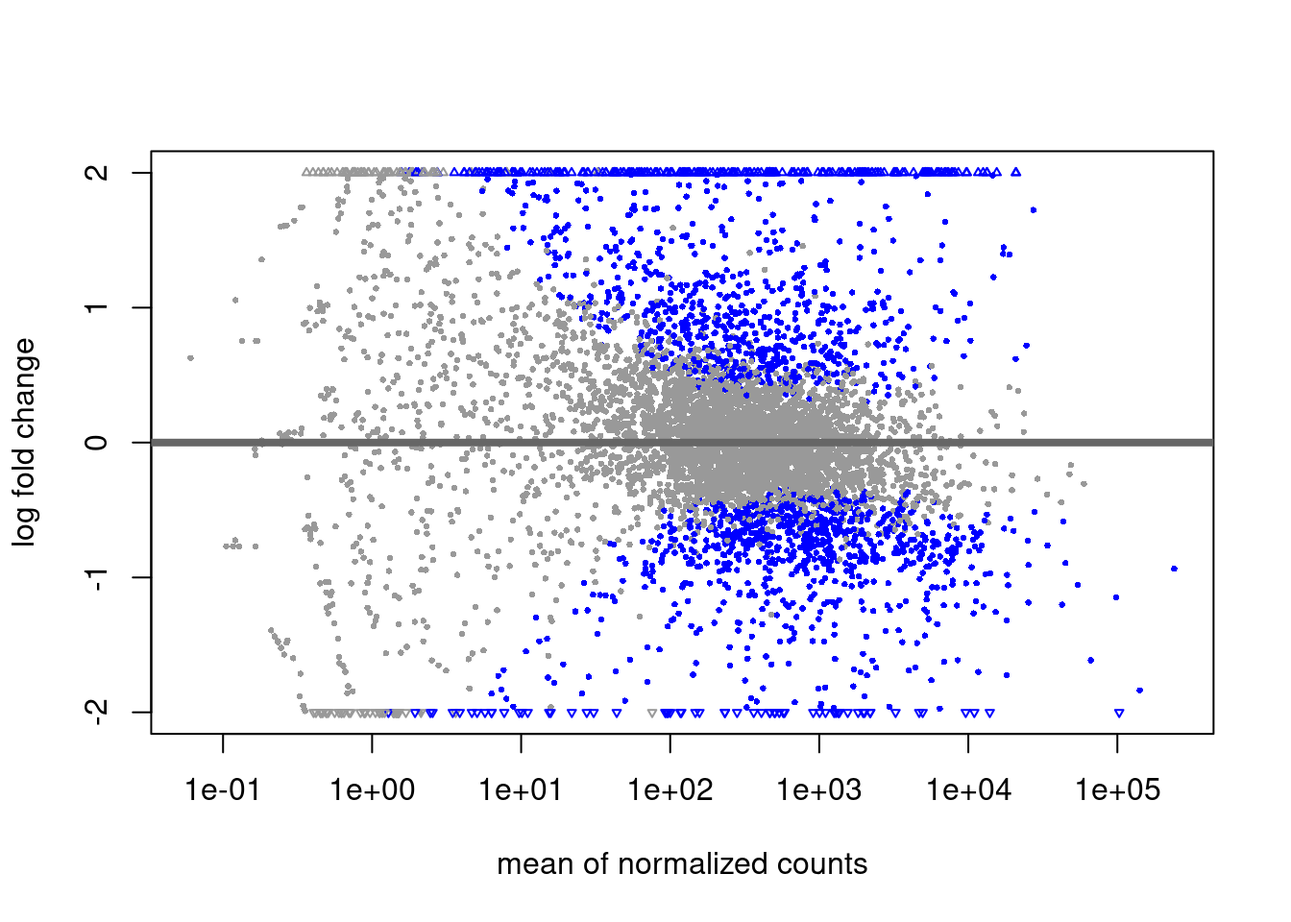
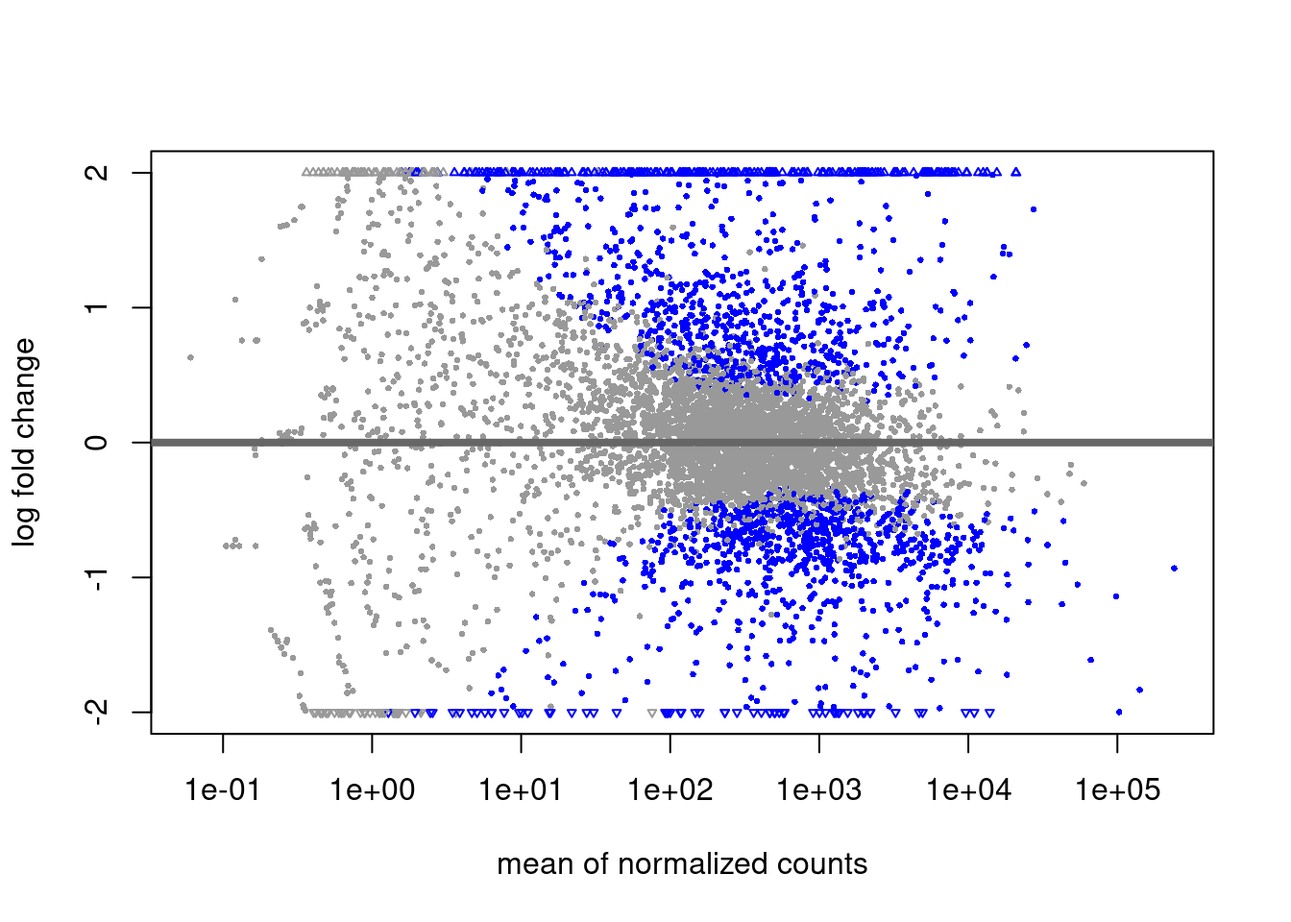
Visual changes

Changed region(s): [[0.6562, 0.5312, 0.6875, 0.5625], [0.625, 0.4062, 0.6562, 0.4375]]

diff --git a/src/4_differential_expression/4_differential_expression.html b/src/4_differential_expression/4_differential_expression.html
@@ -165,7 +165,10 @@ div.csl-indent {
   <ul class="collapse">
   <li><a href="#exercise-2" id="toc-exercise-2" class="nav-link" data-scroll-target="#exercise-2">Exercise #2</a></li>
   </ul></li>
-  <li><a href="#exploring-and-visualizing-results" id="toc-exploring-and-visualizing-results" class="nav-link" data-scroll-target="#exploring-and-visualizing-results">Exploring and Visualizing Results</a></li>
+  <li><a href="#exploring-and-visualizing-results" id="toc-exploring-and-visualizing-results" class="nav-link" data-scroll-target="#exploring-and-visualizing-results">Exploring and Visualizing Results</a>
+  <ul class="collapse">
+  <li><a href="#volcano-plot" id="toc-volcano-plot" class="nav-link" data-scroll-target="#volcano-plot">Volcano Plot</a></li>
+  </ul></li>
   </ul></li>
   </ul>
 </nav>
@@ -224,7 +227,7 @@ div.csl-indent {
                                  Dload  Upload   Total   Spent    Left  Speed
 
   0     0    0     0    0     0      0      0 --:--:-- --:--:-- --:--:--     0
-100 4760k  100 4760k    0     0  38.7M      0 --:--:-- --:--:-- --:--:-- 38.7M
+100 4760k  100 4760k    0     0  37.4M      0 --:--:-- --:--:-- --:--:-- 37.4M
 G1.h5
 G1.json
 G1.txt
@@ -412,13 +415,13 @@ colData names(1): Condition</code></pre>
 <pre><code>using 'avgTxLength' from assays(dds), correcting for library size</code></pre>
 </div>
 <div class="sourceCode cell-code" id="cb29"><pre class="sourceCode r code-with-copy"><code class="sourceCode r"><span id="cb29-1"><a href="#cb29-1" aria-hidden="true" tabindex="-1"></a><span class="co"># Extract normalized counts</span></span>
-<span id="cb29-2"><a href="#cb29-2" aria-hidden="true" tabindex="-1"></a>normCounts <span class="ot">&lt;-</span> SummarizedExperiment<span class="sc">::</span><span class="fu">assay</span>(vsdQC)</span></code><button title="Copy to Clipboard" class="code-copy-button"><i class="bi"></i></button></pre></div>
+<span id="cb29-2"><a href="#cb29-2" aria-hidden="true" tabindex="-1"></a>vsdSE <span class="ot">&lt;-</span> SummarizedExperiment<span class="sc">::</span><span class="fu">assay</span>(vsdQC)</span></code><button title="Copy to Clipboard" class="code-copy-button"><i class="bi"></i></button></pre></div>
 </div>
 <section id="pca" class="level3">
 <h3 class="anchored" data-anchor-id="pca">PCA</h3>
 <div class="cell">
 <div class="sourceCode cell-code" id="cb30"><pre class="sourceCode r code-with-copy"><code class="sourceCode r"><span id="cb30-1"><a href="#cb30-1" aria-hidden="true" tabindex="-1"></a><span class="co"># Run PCA</span></span>
-<span id="cb30-2"><a href="#cb30-2" aria-hidden="true" tabindex="-1"></a>pcDat  <span class="ot">&lt;-</span> <span class="fu">prcomp</span>(<span class="fu">t</span>(normCounts), <span class="at">scale. =</span> <span class="cn">TRUE</span>)</span>
+<span id="cb30-2"><a href="#cb30-2" aria-hidden="true" tabindex="-1"></a>pcDat  <span class="ot">&lt;-</span> <span class="fu">prcomp</span>(<span class="fu">t</span>(vsdSE), <span class="at">scale. =</span> <span class="cn">FALSE</span>)</span>
 <span id="cb30-3"><a href="#cb30-3" aria-hidden="true" tabindex="-1"></a></span>
 <span id="cb30-4"><a href="#cb30-4" aria-hidden="true" tabindex="-1"></a><span class="co"># Calculate explained variance</span></span>
 <span id="cb30-5"><a href="#cb30-5" aria-hidden="true" tabindex="-1"></a>varExp <span class="ot">&lt;-</span> (<span class="dv">100</span><span class="sc">*</span>pcDat<span class="sc">$</span>sdev<span class="sc">^</span><span class="dv">2</span>)<span class="sc">/</span><span class="fu">sum</span>(pcDat<span class="sc">$</span>sdev<span class="sc">^</span><span class="dv">2</span>)</span>
@@ -439,19 +442,16 @@ colData names(1): Condition</code></pre>
 </div>
 </div>
 <div class="cell">
-<div class="sourceCode cell-code" id="cb31"><pre class="sourceCode r code-with-copy"><code class="sourceCode r"><span id="cb31-1"><a href="#cb31-1" aria-hidden="true" tabindex="-1"></a><span class="fu">plot_ly</span>(<span class="fu">as.data.frame</span>(pcDat<span class="sc">$</span>x), <span class="at">x=</span><span class="sc">~</span>PC1, <span class="at">y=</span><span class="sc">~</span>PC2, <span class="at">color=</span>meta<span class="sc">$</span>Condition, <span class="at">colors=</span><span class="st">"Set1"</span>,</span>
-<span id="cb31-2"><a href="#cb31-2" aria-hidden="true" tabindex="-1"></a>        <span class="at">type=</span><span class="st">"scatter"</span>, <span class="at">mode=</span><span class="st">"markers"</span>) <span class="sc">%&gt;%</span></span>
-<span id="cb31-3"><a href="#cb31-3" aria-hidden="true" tabindex="-1"></a>  <span class="fu">layout</span>(<span class="at">title=</span><span class="st">"PCA Plot"</span>)</span></code><button title="Copy to Clipboard" class="code-copy-button"><i class="bi"></i></button></pre></div>
+<div class="sourceCode cell-code" id="cb31"><pre class="sourceCode r code-with-copy"><code class="sourceCode r"><span id="cb31-1"><a href="#cb31-1" aria-hidden="true" tabindex="-1"></a><span class="fu">plotPCA</span>(vsdQC, <span class="at">intgroup=</span><span class="fu">c</span>(<span class="st">"Condition"</span>), <span class="at">ntop=</span><span class="fu">nrow</span>(vsdQC))</span></code><button title="Copy to Clipboard" class="code-copy-button"><i class="bi"></i></button></pre></div>
 <div class="cell-output-display">
-<div id="htmlwidget-3216bf46570c15aa5b2b" style="width:100%;height:464px;" class="plotly html-widget"></div>
-<script type="application/json" data-for="htmlwidget-3216bf46570c15aa5b2b">{"x":{"visdat":{"88f268aa72c":["function () ","plotlyVisDat"]},"cur_data":"88f268aa72c","attrs":{"88f268aa72c":{"x":{},"y":{},"mode":"markers","color":["Glucose","Glucose","Glucose","Glucose","GlycEth","GlycEth","GlycEth","GlycEth"],"colors":"Set1","alpha_stroke":1,"sizes":[10,100],"spans":[1,20],"type":"scatter"}},"layout":{"margin":{"b":40,"l":60,"t":25,"r":10},"title":"PCA Plot","xaxis":{"domain":[0,1],"automargin":true,"title":"PC1"},"yaxis":{"domain":[0,1],"automargin":true,"title":"PC2"},"hovermode":"closest","showlegend":true},"source":"A","config":{"modeBarButtonsToAdd":["hoverclosest","hovercompare"],"showSendToCloud":false},"data":[{"x":[-49.3047650700246,-32.7316294642429,-40.3808279801352,-44.8330584765153],"y":[36.3597720309979,-31.4088647379974,-36.9154853872422,17.5541054863385],"mode":"markers","type":"scatter","name":"Glucose","marker":{"color":"rgba(228,26,28,1)","line":{"color":"rgba(228,26,28,1)"}},"textfont":{"color":"rgba(228,26,28,1)"},"error_y":{"color":"rgba(228,26,28,1)"},"error_x":{"color":"rgba(228,26,28,1)"},"line":{"color":"rgba(228,26,28,1)"},"xaxis":"x","yaxis":"y","frame":null},{"x":[48.6089213451534,38.0011604711075,34.9902898055846,45.6499093690726],"y":[-34.5430386487641,-22.2388812825796,62.3615177042118,8.83087483503513],"mode":"markers","type":"scatter","name":"GlycEth","marker":{"color":"rgba(55,126,184,1)","line":{"color":"rgba(55,126,184,1)"}},"textfont":{"color":"rgba(55,126,184,1)"},"error_y":{"color":"rgba(55,126,184,1)"},"error_x":{"color":"rgba(55,126,184,1)"},"line":{"color":"rgba(55,126,184,1)"},"xaxis":"x","yaxis":"y","frame":null}],"highlight":{"on":"plotly_click","persistent":false,"dynamic":false,"selectize":false,"opacityDim":0.2,"selected":{"opacity":1},"debounce":0},"shinyEvents":["plotly_hover","plotly_click","plotly_selected","plotly_relayout","plotly_brushed","plotly_brushing","plotly_clickannotation","plotly_doubleclick","plotly_deselect","plotly_afterplot","plotly_sunburstclick"],"base_url":"https://plot.ly"},"evals":[],"jsHooks":[]}</script>
+<p><img src="4_differential_expression_files/figure-html/unnamed-chunk-10-1.png" class="img-fluid" width="672"></p>
 </div>
 </div>
 </section>
 <section id="mds" class="level3">
 <h3 class="anchored" data-anchor-id="mds">MDS</h3>
 <div class="cell">
-<div class="sourceCode cell-code" id="cb32"><pre class="sourceCode r code-with-copy"><code class="sourceCode r"><span id="cb32-1"><a href="#cb32-1" aria-hidden="true" tabindex="-1"></a>mds <span class="ot">&lt;-</span> limma<span class="sc">::</span><span class="fu">plotMDS</span>(normCounts, <span class="at">plot=</span><span class="cn">FALSE</span>)</span>
+<div class="sourceCode cell-code" id="cb32"><pre class="sourceCode r code-with-copy"><code class="sourceCode r"><span id="cb32-1"><a href="#cb32-1" aria-hidden="true" tabindex="-1"></a>mds <span class="ot">&lt;-</span> limma<span class="sc">::</span><span class="fu">plotMDS</span>(vsdSE, <span class="at">plot=</span><span class="cn">FALSE</span>)</span>
 <span id="cb32-2"><a href="#cb32-2" aria-hidden="true" tabindex="-1"></a>mdsOut <span class="ot">&lt;-</span> mds<span class="sc">$</span>eigen.vectors[,<span class="dv">1</span><span class="sc">:</span><span class="dv">3</span>]</span>
 <span id="cb32-3"><a href="#cb32-3" aria-hidden="true" tabindex="-1"></a><span class="fu">colnames</span>(mdsOut) <span class="ot">&lt;-</span> <span class="fu">c</span>(<span class="st">"Leading logFC dim1"</span>, <span class="st">"Leading logFC dim2"</span>, </span>
 <span id="cb32-4"><a href="#cb32-4" aria-hidden="true" tabindex="-1"></a>                      <span class="st">"Leading logFC dim3"</span>)</span>
@@ -459,15 +459,15 @@ colData names(1): Condition</code></pre>
 <span id="cb32-6"><a href="#cb32-6" aria-hidden="true" tabindex="-1"></a><span class="fu">plot_ly</span>(toPlot, <span class="at">x=</span><span class="sc">~</span><span class="st">`</span><span class="at">Leading logFC dim1</span><span class="st">`</span>, <span class="at">y=</span><span class="sc">~</span><span class="st">`</span><span class="at">Leading logFC dim2</span><span class="st">`</span>, <span class="at">z=</span><span class="sc">~</span><span class="st">`</span><span class="at">Leading logFC dim3</span><span class="st">`</span>, <span class="at">color=</span><span class="sc">~</span>Condition, <span class="at">colors=</span><span class="st">"Set1"</span>, <span class="at">type=</span><span class="st">'scatter3d'</span>, <span class="at">mode=</span><span class="st">'markers+text'</span>, <span class="at">text=</span><span class="sc">~</span>Sample, <span class="at">textposition =</span> <span class="st">"top right"</span>) <span class="sc">%&gt;%</span></span>
 <span id="cb32-7"><a href="#cb32-7" aria-hidden="true" tabindex="-1"></a>  plotly<span class="sc">::</span><span class="fu">layout</span>(<span class="at">title=</span><span class="st">"Classical MDS"</span>, <span class="at">scene=</span><span class="fu">list</span>(<span class="at">xaxis=</span><span class="fu">list</span>(<span class="at">title =</span> <span class="st">'Leading logFC dim1'</span>), <span class="at">yaxis =</span> <span class="fu">list</span>(<span class="at">title =</span> <span class="st">'Leading logFC dim2'</span>), <span class="at">zaxis =</span> <span class="fu">list</span>(<span class="at">title =</span> <span class="st">'Leading logFC dim3'</span>)))</span></code><button title="Copy to Clipboard" class="code-copy-button"><i class="bi"></i></button></pre></div>
 <div class="cell-output-display">
-<div id="htmlwidget-aba33230ce07cdeaed8c" style="width:100%;height:464px;" class="plotly html-widget"></div>
-<script type="application/json" data-for="htmlwidget-aba33230ce07cdeaed8c">{"x":{"visdat":{"88f236138ac3":["function () ","plotlyVisDat"]},"cur_data":"88f236138ac3","attrs":{"88f236138ac3":{"x":{},"y":{},"z":{},"mode":"markers+text","text":{},"textposition":"top right","color":{},"colors":"Set1","alpha_stroke":1,"sizes":[10,100],"spans":[1,20],"type":"scatter3d"}},"layout":{"margin":{"b":40,"l":60,"t":25,"r":10},"title":"Classical MDS","scene":{"xaxis":{"title":"Leading logFC dim1"},"yaxis":{"title":"Leading logFC dim2"},"zaxis":{"title":"Leading logFC dim3"}},"hovermode":"closest","showlegend":true},"source":"A","config":{"modeBarButtonsToAdd":["hoverclosest","hovercompare"],"showSendToCloud":false},"data":[{"x":[-0.37608837817204,-0.362126628145731,-0.323681703130708,-0.348981167623267],"y":[0.274948059131787,-0.0961810490299608,-0.448285246947217,0.208070151631864],"z":[0.263889951267472,-0.512079641746123,0.215206107974928,0.0929623249093178],"mode":"markers+text","text":["G1","G2","G3","G4"],"textposition":["top right","top right","top right","top right"],"type":"scatter3d","name":"Glucose","marker":{"color":"rgba(228,26,28,1)","line":{"color":"rgba(228,26,28,1)"}},"textfont":{"color":"rgba(228,26,28,1)"},"error_y":{"color":"rgba(228,26,28,1)"},"error_x":{"color":"rgba(228,26,28,1)"},"line":{"color":"rgba(228,26,28,1)"},"frame":null},{"x":[0.379931940391863,0.361639973571027,0.364209290132452,0.305096672976402],"y":[-0.431251708255777,-0.34748921528266,0.494975557157824,0.345213451594143],"z":[0.0306516058939538,0.0969269604123899,0.44717311925359,-0.634730427965528],"mode":"markers+text","text":["GE1","GE2","GE3","GE4"],"textposition":["top right","top right","top right","top right"],"type":"scatter3d","name":"GlycEth","marker":{"color":"rgba(55,126,184,1)","line":{"color":"rgba(55,126,184,1)"}},"textfont":{"color":"rgba(55,126,184,1)"},"error_y":{"color":"rgba(55,126,184,1)"},"error_x":{"color":"rgba(55,126,184,1)"},"line":{"color":"rgba(55,126,184,1)"},"frame":null}],"highlight":{"on":"plotly_click","persistent":false,"dynamic":false,"selectize":false,"opacityDim":0.2,"selected":{"opacity":1},"debounce":0},"shinyEvents":["plotly_hover","plotly_click","plotly_selected","plotly_relayout","plotly_brushed","plotly_brushing","plotly_clickannotation","plotly_doubleclick","plotly_deselect","plotly_afterplot","plotly_sunburstclick"],"base_url":"https://plot.ly"},"evals":[],"jsHooks":[]}</script>
+<div id="htmlwidget-b91275075f843d3337b0" style="width:100%;height:464px;" class="plotly html-widget"></div>
+<script type="application/json" data-for="htmlwidget-b91275075f843d3337b0">{"x":{"visdat":{"9aea4a137bf6":["function () ","plotlyVisDat"]},"cur_data":"9aea4a137bf6","attrs":{"9aea4a137bf6":{"x":{},"y":{},"z":{},"mode":"markers+text","text":{},"textposition":"top right","color":{},"colors":"Set1","alpha_stroke":1,"sizes":[10,100],"spans":[1,20],"type":"scatter3d"}},"layout":{"margin":{"b":40,"l":60,"t":25,"r":10},"title":"Classical MDS","scene":{"xaxis":{"title":"Leading logFC dim1"},"yaxis":{"title":"Leading logFC dim2"},"zaxis":{"title":"Leading logFC dim3"}},"hovermode":"closest","showlegend":true},"source":"A","config":{"modeBarButtonsToAdd":["hoverclosest","hovercompare"],"showSendToCloud":false},"data":[{"x":[-0.37608837817204,-0.362126628145731,-0.323681703130708,-0.348981167623267],"y":[0.274948059131787,-0.0961810490299608,-0.448285246947217,0.208070151631864],"z":[0.263889951267472,-0.512079641746123,0.215206107974928,0.0929623249093178],"mode":"markers+text","text":["G1","G2","G3","G4"],"textposition":["top right","top right","top right","top right"],"type":"scatter3d","name":"Glucose","marker":{"color":"rgba(228,26,28,1)","line":{"color":"rgba(228,26,28,1)"}},"textfont":{"color":"rgba(228,26,28,1)"},"error_y":{"color":"rgba(228,26,28,1)"},"error_x":{"color":"rgba(228,26,28,1)"},"line":{"color":"rgba(228,26,28,1)"},"frame":null},{"x":[0.379931940391863,0.361639973571027,0.364209290132452,0.305096672976402],"y":[-0.431251708255777,-0.34748921528266,0.494975557157824,0.345213451594143],"z":[0.0306516058939538,0.0969269604123899,0.44717311925359,-0.634730427965528],"mode":"markers+text","text":["GE1","GE2","GE3","GE4"],"textposition":["top right","top right","top right","top right"],"type":"scatter3d","name":"GlycEth","marker":{"color":"rgba(55,126,184,1)","line":{"color":"rgba(55,126,184,1)"}},"textfont":{"color":"rgba(55,126,184,1)"},"error_y":{"color":"rgba(55,126,184,1)"},"error_x":{"color":"rgba(55,126,184,1)"},"line":{"color":"rgba(55,126,184,1)"},"frame":null}],"highlight":{"on":"plotly_click","persistent":false,"dynamic":false,"selectize":false,"opacityDim":0.2,"selected":{"opacity":1},"debounce":0},"shinyEvents":["plotly_hover","plotly_click","plotly_selected","plotly_relayout","plotly_brushed","plotly_brushing","plotly_clickannotation","plotly_doubleclick","plotly_deselect","plotly_afterplot","plotly_sunburstclick"],"base_url":"https://plot.ly"},"evals":[],"jsHooks":[]}</script>
 </div>
 </div>
 </section>
 <section id="hierarchical-clustering-plot" class="level3">
 <h3 class="anchored" data-anchor-id="hierarchical-clustering-plot">Hierarchical Clustering Plot</h3>
 <div class="cell">
-<div class="sourceCode cell-code" id="cb33"><pre class="sourceCode r code-with-copy"><code class="sourceCode r"><span id="cb33-1"><a href="#cb33-1" aria-hidden="true" tabindex="-1"></a>d <span class="ot">&lt;-</span> <span class="fu">as.dist</span>(<span class="dv">1</span><span class="sc">-</span><span class="fu">cor</span>(normCounts, <span class="at">use=</span><span class="st">"complete.obs"</span>))</span>
+<div class="sourceCode cell-code" id="cb33"><pre class="sourceCode r code-with-copy"><code class="sourceCode r"><span id="cb33-1"><a href="#cb33-1" aria-hidden="true" tabindex="-1"></a>d <span class="ot">&lt;-</span> <span class="fu">as.dist</span>(<span class="dv">1</span><span class="sc">-</span><span class="fu">cor</span>(vsdSE, <span class="at">use=</span><span class="st">"complete.obs"</span>))</span>
 <span id="cb33-2"><a href="#cb33-2" aria-hidden="true" tabindex="-1"></a>hc <span class="ot">&lt;-</span> <span class="fu">hclust</span>(d, <span class="at">method=</span><span class="st">"ward.D2"</span>)</span>
 <span id="cb33-3"><a href="#cb33-3" aria-hidden="true" tabindex="-1"></a>WGCNA<span class="sc">::</span><span class="fu">plotDendroAndColors</span>(hc, sampleColours, <span class="at">autoColorHeight=</span><span class="cn">TRUE</span>, <span class="at">hang =</span> <span class="sc">-</span><span class="fl">0.1</span>)</span></code><button title="Copy to Clipboard" class="code-copy-button"><i class="bi"></i></button></pre></div>
 <div class="cell-output cell-output-stderr">
@@ -532,14 +532,19 @@ Solutions
 </section>
 <section id="performing-the-de" class="level2">
 <h2 class="anchored" data-anchor-id="performing-the-de">Performing the DE</h2>
-<p>The standard differential expression analysis steps are wrapped into a single function, <code>DESeq</code>. The estimation steps performed by this function are described below, in the manual page for <code>?DESeq</code> . We take here an additional step of calculating the size factors</p>
+<p>The standard differential expression analysis steps are wrapped into a single function, <code>DESeq</code>. The estimation steps performed by this function are described below, in the manual page for <code>?DESeq</code> .</p>
 <div class="cell">
-<div class="sourceCode cell-code" id="cb37"><pre class="sourceCode r code-with-copy"><code class="sourceCode r"><span id="cb37-1"><a href="#cb37-1" aria-hidden="true" tabindex="-1"></a>dds <span class="ot">&lt;-</span> <span class="fu">DESeq</span>(dds)</span></code><button title="Copy to Clipboard" class="code-copy-button"><i class="bi"></i></button></pre></div>
-<div class="cell-output cell-output-stderr">
-<pre><code>estimating size factors</code></pre>
-</div>
+<div class="sourceCode cell-code" id="cb37"><pre class="sourceCode r code-with-copy"><code class="sourceCode r"><span id="cb37-1"><a href="#cb37-1" aria-hidden="true" tabindex="-1"></a><span class="co"># Calculate size factors</span></span>
+<span id="cb37-2"><a href="#cb37-2" aria-hidden="true" tabindex="-1"></a>dds <span class="ot">&lt;-</span> <span class="fu">estimateSizeFactors</span>(dds, <span class="at">controlGenes =</span> isValid)</span></code><button title="Copy to Clipboard" class="code-copy-button"><i class="bi"></i></button></pre></div>
 <div class="cell-output cell-output-stderr">
 <pre><code>using 'avgTxLength' from assays(dds), correcting for library size</code></pre>
+</div>
+<div class="sourceCode cell-code" id="cb39"><pre class="sourceCode r code-with-copy"><code class="sourceCode r"><span id="cb39-1"><a href="#cb39-1" aria-hidden="true" tabindex="-1"></a>sf <span class="ot">&lt;-</span> <span class="dv">1</span> <span class="sc">/</span> dds<span class="sc">@</span>colData<span class="sc">$</span>sizeFactor</span>
+<span id="cb39-2"><a href="#cb39-2" aria-hidden="true" tabindex="-1"></a></span>
+<span id="cb39-3"><a href="#cb39-3" aria-hidden="true" tabindex="-1"></a><span class="co"># Calculate DESeq</span></span>
+<span id="cb39-4"><a href="#cb39-4" aria-hidden="true" tabindex="-1"></a>dds <span class="ot">&lt;-</span> <span class="fu">DESeq</span>(dds)</span></code><button title="Copy to Clipboard" class="code-copy-button"><i class="bi"></i></button></pre></div>
+<div class="cell-output cell-output-stderr">
+<pre><code>using pre-existing normalization factors</code></pre>
 </div>
 <div class="cell-output cell-output-stderr">
 <pre><code>estimating dispersions</code></pre>
@@ -556,38 +561,46 @@ Solutions
 <div class="cell-output cell-output-stderr">
 <pre><code>fitting model and testing</code></pre>
 </div>
-<div class="sourceCode cell-code" id="cb45"><pre class="sourceCode r code-with-copy"><code class="sourceCode r"><span id="cb45-1"><a href="#cb45-1" aria-hidden="true" tabindex="-1"></a>res <span class="ot">&lt;-</span> <span class="fu">results</span>(dds)</span>
-<span id="cb45-2"><a href="#cb45-2" aria-hidden="true" tabindex="-1"></a>res</span></code><button title="Copy to Clipboard" class="code-copy-button"><i class="bi"></i></button></pre></div>
+<div class="sourceCode cell-code" id="cb46"><pre class="sourceCode r code-with-copy"><code class="sourceCode r"><span id="cb46-1"><a href="#cb46-1" aria-hidden="true" tabindex="-1"></a>res <span class="ot">&lt;-</span> <span class="fu">results</span>(dds)</span>
+<span id="cb46-2"><a href="#cb46-2" aria-hidden="true" tabindex="-1"></a>res</span></code><button title="Copy to Clipboard" class="code-copy-button"><i class="bi"></i></button></pre></div>
 <div class="cell-output cell-output-stdout">
 <pre><code>log2 fold change (MLE): Condition GlycEth vs Glucose 
 Wald test p-value: Condition GlycEth vs Glucose 
 DataFrame with 6600 rows and 6 columns
            baseMean log2FoldChange     lfcSE      stat      pvalue        padj
           &lt;numeric&gt;      &lt;numeric&gt; &lt;numeric&gt; &lt;numeric&gt;   &lt;numeric&gt;   &lt;numeric&gt;
-Q0010      0.133636       0.753532  3.525002  0.213768 8.30728e-01          NA
+Q0010      0.133925        0.75709  3.524951   0.21478 8.29939e-01          NA
 Q0017      0.000000             NA        NA        NA          NA          NA
 Q0032      0.000000             NA        NA        NA          NA          NA
-Q0045     17.531510       3.233381  0.714722  4.523968 6.06910e-06 6.45579e-05
-Q0050     48.389523       3.388121  0.442177  7.662369 1.82534e-14 5.55973e-13
+Q0045     17.543419        3.23652  0.714457   4.53003 5.89741e-06 6.29461e-05
+Q0050     48.426998        3.39134  0.441980   7.67306 1.67941e-14 5.11523e-13
 ...             ...            ...       ...       ...         ...         ...
-YPR201W    28.23591       1.005451  0.505424  1.989323 4.66655e-02 1.41241e-01
-YPR202W    42.03165       0.889515  0.518174  1.716633 8.60463e-02 2.23530e-01
-YPR203W    31.36816      -1.034021  0.625267 -1.653726 9.81831e-02 2.45517e-01
-YPR204C-A   2.54041      -0.775415  1.336804 -0.580051 5.61880e-01 7.60542e-01
-YPR204W   985.95742       0.883429  0.170332  5.186498 2.14286e-07 3.04783e-06</code></pre>
+YPR201W    28.24256       1.008524  0.505255  1.996067 4.59266e-02 1.39954e-01
+YPR202W    42.04438       0.892940  0.517929  1.724061 8.46969e-02 2.20445e-01
+YPR203W    31.35051      -1.030423  0.624919 -1.648889 9.91703e-02 2.47837e-01
+YPR204C-A   2.53859      -0.773100  1.337551 -0.577997 5.63266e-01 7.61032e-01
+YPR204W   986.30147       0.886455  0.170717  5.192551 2.07432e-07 2.97066e-06</code></pre>
 </div>
+<div class="sourceCode cell-code" id="cb48"><pre class="sourceCode r code-with-copy"><code class="sourceCode r"><span id="cb48-1"><a href="#cb48-1" aria-hidden="true" tabindex="-1"></a><span class="co"># Correct NA p-values</span></span></code><button title="Copy to Clipboard" class="code-copy-button"><i class="bi"></i></button></pre></div>
 </div>
-<div class="callout-note callout callout-style-default callout-captioned">
-<div class="callout-header d-flex align-content-center">
+<div class="callout-note callout callout-style-simple">
+<div class="callout-body d-flex">
 <div class="callout-icon-container">
 <i class="callout-icon"></i>
 </div>
-<div class="callout-caption-container flex-fill">
-Note
+<div class="callout-body-container">
+<p>You may wonder why we designated all genes above threshold as being “control genes” when calculating the size factors. Though this list of course also includes genes which will presumably be differentially expressed between the two conditions, the majority of genes will not be, and this therefore serves as a good approximation of the control genes in cases where we do not have this information a priori.</p>
 </div>
 </div>
-<div class="callout-body-container callout-body">
+</div>
+<div class="callout-note callout callout-style-simple">
+<div class="callout-body d-flex">
+<div class="callout-icon-container">
+<i class="callout-icon"></i>
+</div>
+<div class="callout-body-container">
 <p>Results tables are generated using the function <code>results</code>, which extracts a results table with log2 fold changes, p-values and adjusted p-values. With no additional arguments to results, the log2 fold change and Wald test p-value will be for the last variable in the design formula, and if this is a factor, the comparison will be the last level of this variable over the reference level (see previous note on factor levels).</p>
+</div>
 </div>
 </div>
 <p>Next, let’s take a closer look at the results.</p>
@@ -599,7 +612,7 @@ Note
 <li>How many significantly-expressed genes are there assuming we consider genes differentially expressed if <code>p &lt;= 0.01</code> and <code>log2FoldChange &gt;= 0.5</code> ?</li>
 </ol>
 <div class="callout-tip callout callout-style-simple callout-captioned">
-<div class="callout-header d-flex align-content-center" data-bs-toggle="collapse" data-bs-target=".callout-4-contents" aria-controls="callout-4" aria-expanded="false" aria-label="Toggle callout">
+<div class="callout-header d-flex align-content-center" data-bs-toggle="collapse" data-bs-target=".callout-3-contents" aria-controls="callout-3" aria-expanded="false" aria-label="Toggle callout">
 <div class="callout-icon-container">
 <i class="callout-icon"></i>
 </div>
@@ -608,14 +621,14 @@ Solutions
 </div>
 <div class="callout-btn-toggle d-inline-block border-0 py-1 ps-1 pe-0 float-end"><i class="callout-toggle"></i></div>
 </div>
-<div id="callout-4" class="callout-4-contents callout-collapse collapse">
+<div id="callout-3" class="callout-3-contents callout-collapse collapse">
 <div class="callout-body-container callout-body">
 <ol type="1">
 <li><p>The columns most interesting to us are pvalue, padj (adjusted p-value), and log2FoldChange. Some other columns include <code>lfcSE</code>, which gives the standard error of the <code>log2FoldChange</code> and <code>stat</code>, which gives the Wald statistic. See ?results for more information.</p></li>
 <li><p>BH (Benjamin-Hochberg)</p></li>
 <li><p>Execute the following:</p>
 <div class="cell">
-<div class="sourceCode cell-code" id="cb47"><pre class="sourceCode r code-with-copy"><code class="sourceCode r"><span id="cb47-1"><a href="#cb47-1" aria-hidden="true" tabindex="-1"></a><span class="fu">sum</span>(<span class="fu">abs</span>(res<span class="sc">$</span>log2FoldChange) <span class="sc">&gt;=</span> <span class="fl">0.5</span> <span class="sc">&amp;</span> res<span class="sc">$</span>pvalue <span class="sc">&lt;=</span> <span class="fl">0.01</span>)</span></code><button title="Copy to Clipboard" class="code-copy-button"><i class="bi"></i></button></pre></div>
+<div class="sourceCode cell-code" id="cb49"><pre class="sourceCode r code-with-copy"><code class="sourceCode r"><span id="cb49-1"><a href="#cb49-1" aria-hidden="true" tabindex="-1"></a><span class="fu">sum</span>(<span class="fu">abs</span>(res<span class="sc">$</span>log2FoldChange) <span class="sc">&gt;=</span> <span class="fl">0.5</span> <span class="sc">&amp;</span> res<span class="sc">$</span>pvalue <span class="sc">&lt;=</span> <span class="fl">0.01</span>)</span></code><button title="Copy to Clipboard" class="code-copy-button"><i class="bi"></i></button></pre></div>
 <div class="cell-output cell-output-stdout">
 <pre><code>[1] NA</code></pre>
 </div>
@@ -630,13 +643,13 @@ Solutions
 <h2 class="anchored" data-anchor-id="exploring-and-visualizing-results">Exploring and Visualizing Results</h2>
 <p>Let’s first summarise the results table we get.</p>
 <div class="cell">
-<div class="sourceCode cell-code" id="cb49"><pre class="sourceCode r code-with-copy"><code class="sourceCode r"><span id="cb49-1"><a href="#cb49-1" aria-hidden="true" tabindex="-1"></a><span class="fu">summary</span>(res)</span></code><button title="Copy to Clipboard" class="code-copy-button"><i class="bi"></i></button></pre></div>
+<div class="sourceCode cell-code" id="cb51"><pre class="sourceCode r code-with-copy"><code class="sourceCode r"><span id="cb51-1"><a href="#cb51-1" aria-hidden="true" tabindex="-1"></a><span class="fu">summary</span>(res)</span></code><button title="Copy to Clipboard" class="code-copy-button"><i class="bi"></i></button></pre></div>
 <div class="cell-output cell-output-stdout">
 <pre><code>
 out of 6369 with nonzero total read count
 adjusted p-value &lt; 0.1
-LFC &gt; 0 (up)       : 941, 15%
-LFC &lt; 0 (down)     : 907, 14%
+LFC &gt; 0 (up)       : 948, 15%
+LFC &lt; 0 (down)     : 902, 14%
 outliers [1]       : 1, 0.016%
 low counts [2]     : 124, 1.9%
 (mean count &lt; 0)
@@ -647,14 +660,14 @@ low counts [2]     : 124, 1.9%
 <p>You will notice that there are no low-count genes in the result since we filtered them all out prior to performing the DE.</p>
 <p>The <code>results</code> function contains a number of arguments to customize the results table which is generated. You can read about these arguments by looking up <code>?results</code>. Note that the results function automatically performs independent filtering based on the mean of normalized counts for each gene, optimizing the number of genes which will have an adjusted p-value below a given FDR cutoff, <code>alpha</code>. All genes which do not pass the threshold are set to <code>NA</code>.</p>
 <div class="cell">
-<div class="sourceCode cell-code" id="cb51"><pre class="sourceCode r code-with-copy"><code class="sourceCode r"><span id="cb51-1"><a href="#cb51-1" aria-hidden="true" tabindex="-1"></a>res05 <span class="ot">&lt;-</span> <span class="fu">results</span>(dds, <span class="at">alpha=</span><span class="fl">0.05</span>)</span>
-<span id="cb51-2"><a href="#cb51-2" aria-hidden="true" tabindex="-1"></a><span class="fu">summary</span>(res05)</span></code><button title="Copy to Clipboard" class="code-copy-button"><i class="bi"></i></button></pre></div>
+<div class="sourceCode cell-code" id="cb53"><pre class="sourceCode r code-with-copy"><code class="sourceCode r"><span id="cb53-1"><a href="#cb53-1" aria-hidden="true" tabindex="-1"></a>res05 <span class="ot">&lt;-</span> <span class="fu">results</span>(dds, <span class="at">alpha=</span><span class="fl">0.05</span>)</span>
+<span id="cb53-2"><a href="#cb53-2" aria-hidden="true" tabindex="-1"></a><span class="fu">summary</span>(res05)</span></code><button title="Copy to Clipboard" class="code-copy-button"><i class="bi"></i></button></pre></div>
 <div class="cell-output cell-output-stdout">
 <pre><code>
 out of 6369 with nonzero total read count
 adjusted p-value &lt; 0.05
 LFC &gt; 0 (up)       : 798, 13%
-LFC &lt; 0 (down)     : 738, 12%
+LFC &lt; 0 (down)     : 731, 11%
 outliers [1]       : 1, 0.016%
 low counts [2]     : 0, 0%
 (mean count &lt; 0)
@@ -664,19 +677,19 @@ low counts [2]     : 0, 0%
 </div>
 <p>DESeq2 includes a number of convenience methods for visualizing results. The function <em>plotMA</em> shows the log2 fold changes attributable to a given variable over the mean of normalized counts for all the samples in the <em>DESeqDataSet</em>. Points will be colored red if the adjusted <em>p</em> value is less than 0.1 (the default <code>alpha</code> value).</p>
 <div class="cell">
-<div class="sourceCode cell-code" id="cb53"><pre class="sourceCode r code-with-copy"><code class="sourceCode r"><span id="cb53-1"><a href="#cb53-1" aria-hidden="true" tabindex="-1"></a><span class="fu">plotMA</span>(res, <span class="at">ylim=</span><span class="fu">c</span>(<span class="sc">-</span><span class="dv">2</span>,<span class="dv">2</span>))</span></code><button title="Copy to Clipboard" class="code-copy-button"><i class="bi"></i></button></pre></div>
+<div class="sourceCode cell-code" id="cb55"><pre class="sourceCode r code-with-copy"><code class="sourceCode r"><span id="cb55-1"><a href="#cb55-1" aria-hidden="true" tabindex="-1"></a><span class="fu">plotMA</span>(res, <span class="at">ylim=</span><span class="fu">c</span>(<span class="sc">-</span><span class="dv">2</span>,<span class="dv">2</span>))</span></code><button title="Copy to Clipboard" class="code-copy-button"><i class="bi"></i></button></pre></div>
 <div class="cell-output-display">
 <p><img src="4_differential_expression_files/figure-html/unnamed-chunk-19-1.png" class="img-fluid" width="672"></p>
 </div>
 </div>
 <p>It is more useful visualize the MA-plot for the shrunken log2 fold changes, which remove the noise associated with log2 fold changes from low count genes without requiring arbitrary filtering thresholds.</p>
 <div class="cell">
-<div class="sourceCode cell-code" id="cb54"><pre class="sourceCode r code-with-copy"><code class="sourceCode r"><span id="cb54-1"><a href="#cb54-1" aria-hidden="true" tabindex="-1"></a>resultsName <span class="ot">&lt;-</span> <span class="fu">resultsNames</span>(dds)[<span class="sc">-</span><span class="dv">1</span>]</span>
-<span id="cb54-2"><a href="#cb54-2" aria-hidden="true" tabindex="-1"></a>resultsName  <span class="co"># Get the contrast</span></span></code><button title="Copy to Clipboard" class="code-copy-button"><i class="bi"></i></button></pre></div>
+<div class="sourceCode cell-code" id="cb56"><pre class="sourceCode r code-with-copy"><code class="sourceCode r"><span id="cb56-1"><a href="#cb56-1" aria-hidden="true" tabindex="-1"></a>resultsName <span class="ot">&lt;-</span> <span class="fu">resultsNames</span>(dds)[<span class="sc">-</span><span class="dv">1</span>]</span>
+<span id="cb56-2"><a href="#cb56-2" aria-hidden="true" tabindex="-1"></a>resultsName  <span class="co"># Get the contrast</span></span></code><button title="Copy to Clipboard" class="code-copy-button"><i class="bi"></i></button></pre></div>
 <div class="cell-output cell-output-stdout">
 <pre><code>[1] "Condition_GlycEth_vs_Glucose"</code></pre>
 </div>
-<div class="sourceCode cell-code" id="cb56"><pre class="sourceCode r code-with-copy"><code class="sourceCode r"><span id="cb56-1"><a href="#cb56-1" aria-hidden="true" tabindex="-1"></a>resLFC <span class="ot">&lt;-</span> <span class="fu">lfcShrink</span>(dds, <span class="at">coef=</span>resultsName, <span class="at">type=</span><span class="st">"normal"</span>)</span></code><button title="Copy to Clipboard" class="code-copy-button"><i class="bi"></i></button></pre></div>
+<div class="sourceCode cell-code" id="cb58"><pre class="sourceCode r code-with-copy"><code class="sourceCode r"><span id="cb58-1"><a href="#cb58-1" aria-hidden="true" tabindex="-1"></a>resLFC <span class="ot">&lt;-</span> <span class="fu">lfcShrink</span>(dds, <span class="at">coef=</span>resultsName, <span class="at">type=</span><span class="st">"normal"</span>)</span></code><button title="Copy to Clipboard" class="code-copy-button"><i class="bi"></i></button></pre></div>
 <div class="cell-output cell-output-stderr">
 <pre><code>using 'normal' for LFC shrinkage, the Normal prior from Love et al (2014).
 
@@ -684,16 +697,19 @@ Note that type='apeglm' and type='ashr' have shown to have less bias than type='
 See ?lfcShrink for more details on shrinkage type, and the DESeq2 vignette.
 Reference: https://doi.org/10.1093/bioinformatics/bty895</code></pre>
 </div>
-<div class="sourceCode cell-code" id="cb58"><pre class="sourceCode r code-with-copy"><code class="sourceCode r"><span id="cb58-1"><a href="#cb58-1" aria-hidden="true" tabindex="-1"></a><span class="fu">plotMA</span>(resLFC, <span class="at">ylim=</span><span class="fu">c</span>(<span class="sc">-</span><span class="dv">2</span>,<span class="dv">2</span>))</span></code><button title="Copy to Clipboard" class="code-copy-button"><i class="bi"></i></button></pre></div>
+<div class="sourceCode cell-code" id="cb60"><pre class="sourceCode r code-with-copy"><code class="sourceCode r"><span id="cb60-1"><a href="#cb60-1" aria-hidden="true" tabindex="-1"></a><span class="fu">plotMA</span>(resLFC, <span class="at">ylim=</span><span class="fu">c</span>(<span class="sc">-</span><span class="dv">2</span>,<span class="dv">2</span>))</span></code><button title="Copy to Clipboard" class="code-copy-button"><i class="bi"></i></button></pre></div>
 <div class="cell-output-display">
 <p><img src="4_differential_expression_files/figure-html/unnamed-chunk-20-1.png" class="img-fluid" width="672"></p>
 </div>
 </div>
+<section id="volcano-plot" class="level3 unnumbered">
+
 
 </section>
 </section>
+</section>
 
-<div id="quarto-appendix" class="default"><section class="quarto-appendix-contents" role="doc-bibliography"><h2 class="anchored quarto-appendix-heading">References</h2><div id="refs" class="references csl-bib-body hanging-indent" role="doc-bibliography">
+<div id="quarto-appendix" class="default"><section class="quarto-appendix-contents" role="doc-bibliography"><h2 class="anchored quarto-appendix-heading">Volcano Plot</h2><div id="refs" class="references csl-bib-body hanging-indent" role="doc-bibliography">
 <div id="ref-DESeq2" class="csl-entry" role="doc-biblioentry">
 Love, Michael I., Wolfgang Huber, and Simon Anders. 2014. <span>“Moderated Estimation of Fold Change and Dispersion for RNA-Seq Data with DESeq2”</span> 15: 550. <a href="https://doi.org/10.1186/s13059-014-0550-8">https://doi.org/10.1186/s13059-014-0550-8</a>.
 </div>

diff --git a/src/3_quant/3_quantification.html b/src/3_quant/3_quantification.html
@@ -1,3 +1,3 @@
 version https://git-lfs.github.com/spec/v1
-oid sha256:de6084eb9b994d6161b1cbd8426b67dac1f292fa0f7fdfe8d94a1b5bc78ab8a1
-size 117896
+oid sha256:394f5e754c21d84fc501ed52d09f66bcb385019ed43fd5debb326d336c3d5fb5
+size 120877

diff --git a/src/3_quant/style.css b/src/3_quant/style.css
@@ -8,6 +8,6 @@
   background-size: 200px;
   background-position: left;
   background-repeat: no-repeat;
-  padding-left: 10px;
+  padding-left: 0px;
   background-origin: content-box;
 }
